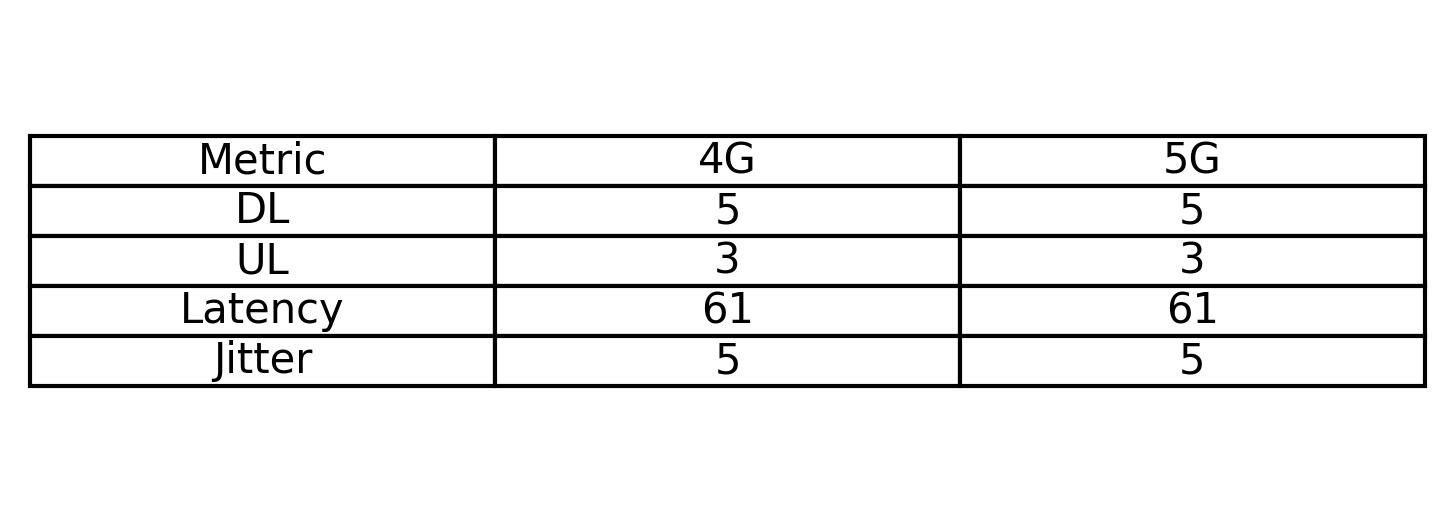
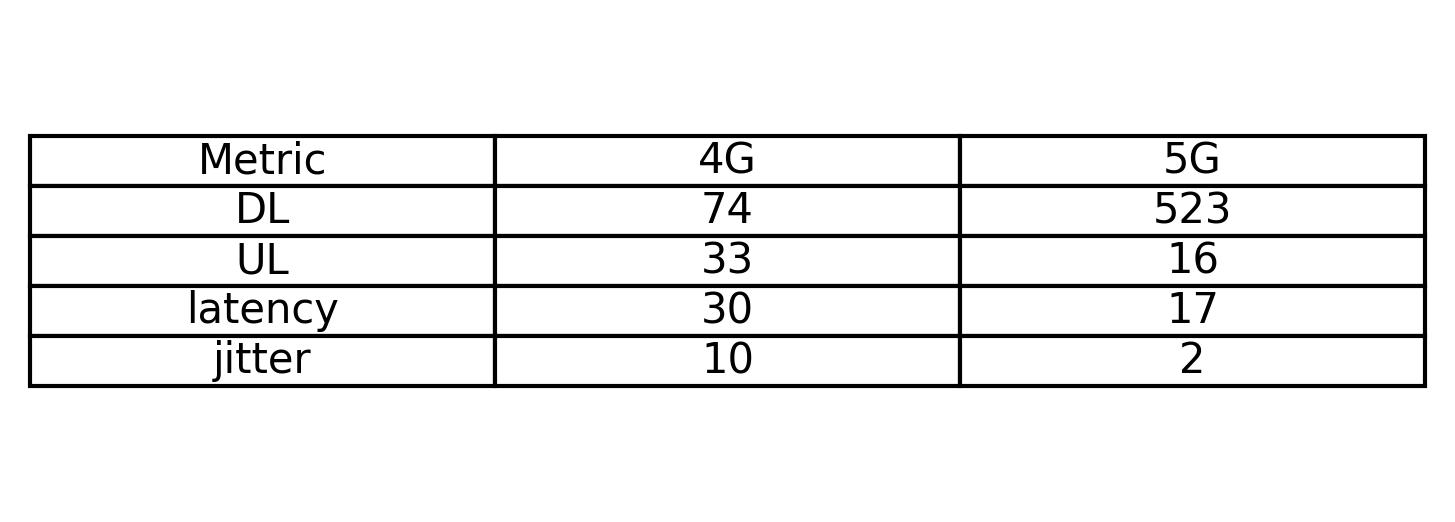
csv file correct

diff --git a/mobile_measurments.py b/mobile_measurments.py
@@ -3,8 +3,8 @@ import matplotlib.pyplot as plt
 import numpy as np
 
 
-df4G = pd.read_csv('test_data.csv')
-df5G = pd.read_csv('test_data.csv')
+df4G = pd.read_csv('mobile_mesurements_1.csv')
+df5G = pd.read_csv('mobile_mesurements_2.csv')
 
 def mean_values(data):
     DL_mean = round(data["DL"].mean())
@@ -17,7 +17,7 @@ df4G_mean = mean_values(df4G)
 df5G_mean = mean_values(df5G)
 
 mean_df = pd.DataFrame({
-    'Metric': ['DL', 'UL', 'Latency', 'Jitter'],
+    'Metric': ['DL', 'UL', 'latency', 'jitter'],
     '4G': df4G_mean,
     '5G': df5G_mean
 })
